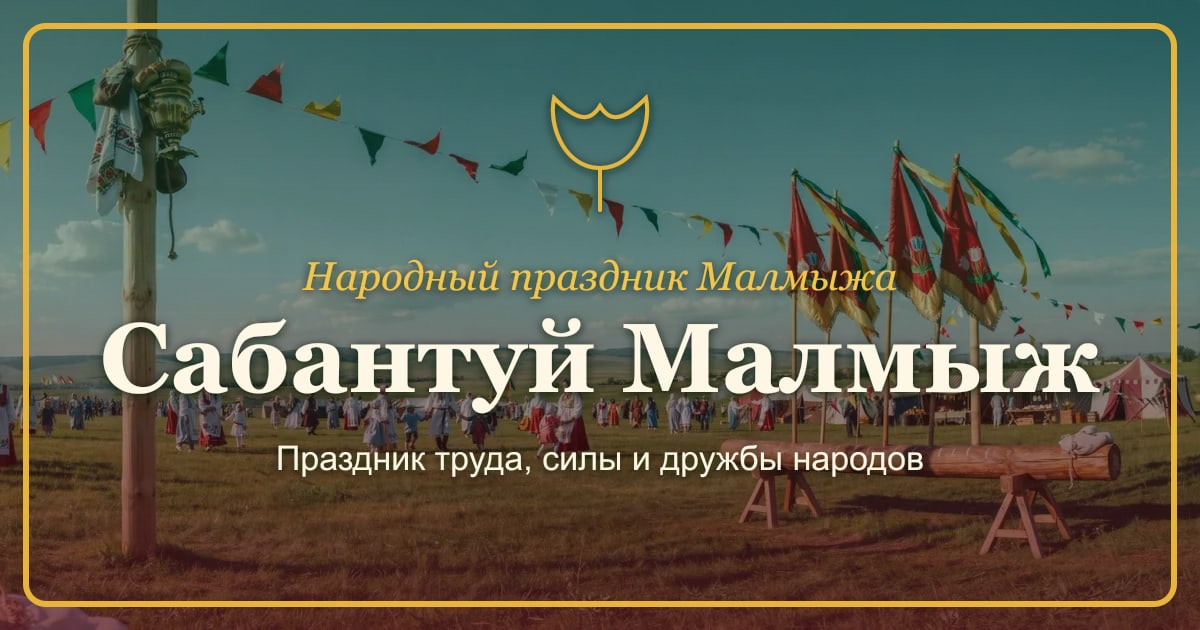
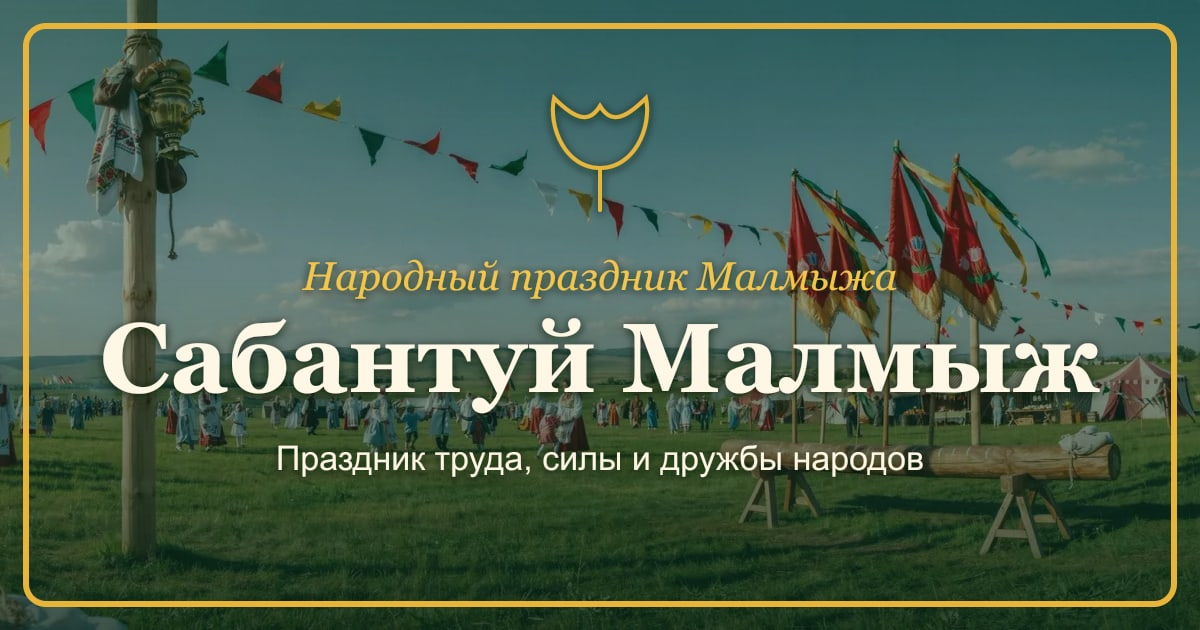
feat(decor): зелёные вуали вместо красных + фото-шапки без рисованных SVG-сцен (#94)
Владелец: «красные затемнения раздражают, красный везде» + «алгоритмом
нарисованные картинки заменить на настоящие фото».

Цвет (red→green):
- tokens.css --hero-overlay (вуаль ВСЕХ фото-шапок + главного героя + секций-
  фонов .section--photo) уходила зелёный→бордовый→МАЛИНОВЫЙ к низу → теперь
  изумрудная по всей высоте. Это и есть «красные затемнения везде».
- pageDecor: убраны малиновые акценты шапок (istoriya→gold, kuhnya→green).
- faq-обложка культ-хаба: малиновый градиент-иконка → зелёный.
- OG-картинка: вуаль перегенерирована в зелёной гамме.

Рисованные сцены долой:
- SceneIllustration (11 SVG-сцен, рисованных кодом) убран из шапок и удалён.
  Страницы с фото показывают сам кадр (чистая фото-шапка); страницы без фото
  (faq/kontakty/privacy) — мотив-медальон до прихода настоящих фото.
- pageDecor: поле scene удалено; PageView медальон только при !photo.
- festive.css: убрано неиспользуемое .page-hero-scene.

Гейт: typecheck + lint + build(14/14) зелёные; ссылок на SceneIllustration нет.
OG проверен Read (зелёная гамма). Прод-смоук шапок — после деплоя.

Changed region(s): [[0.0, 0.6333, 1.0, 1.0]]

diff --git a/web/src/lib/pageDecor.ts b/web/src/lib/pageDecor.ts
@@ -1,27 +1,26 @@
 import type { MotifName } from '../app/(frontend)/components/MotifIcon'
-import type { SceneName } from '../app/(frontend)/components/SceneIllustration'
 import type { Locale } from './i18n'
 
 /**
- * Контент-aware декор прозовых страниц (Pages по slug): тематическая
- * фолк-иллюстрация (SceneIllustration), мотив-иконка-fallback, акцентная тема и
- * надзаголовок-eyebrow подбираются по смыслу страницы. Используется PageView
- * (общий для ru/tt) — закрывает директиву brain «ни одной сухой страницы»:
- * у каждой страницы крупная иллюстрация по смыслу + орнамент-слой.
+ * Контент-aware декор прозовых страниц (Pages по slug): AI-фото-шапка (если есть),
+ * мотив-медальон-fallback (для страниц без фото), акцентная тема и надзаголовок-
+ * eyebrow по смыслу страницы. Используется PageView (общий для ru/tt).
+ *
+ * Прежние рисованные SVG-сцены (SceneIllustration) убраны (владелец: заменить
+ * алгоритмическую графику на настоящие фото) — шапки с фото показывают сам кадр,
+ * безфотовые страницы (faq/kontakty/privacy) — мотив-медальон до прихода фото.
  *
  * Иконки культ-разделов держим в синхроне с lib/cultureSections.tsx (там тот же
  * MotifName на каждый slug). Здесь добавлены служебные страницы (o-sabantuy и т.п.),
- * сцена-иллюстрация, акцент и eyebrow.
+ * акцент и eyebrow.
  */
 type DecorAccent = 'green' | 'crimson' | 'gold' | 'tint'
 
 export type PageDecor = {
   icon: MotifName
-  /** Тематическая иллюстрация по смыслу (R3). null → крупный мотив-медальон. */
-  scene: SceneName | null
   accent: DecorAccent
   eyebrow: string
-  /** AI-фото-фон шапки (гибрид «фото + SVG-эмблема»): базовое имя в /decor/. */
+  /** AI-фото-фон шапки: базовое имя в /decor/. null → мотив-медальон. */
   photo: PagePhoto | null
 }
 
@@ -30,7 +29,6 @@ export type PagePhoto = { base: string; largeWidth: number }
 
 type DecorDef = {
   icon: MotifName
-  scene: SceneName | null
   accent: DecorAccent
   eyebrow: { ru: string; tt: string }
   photo?: PagePhoto
@@ -40,56 +38,48 @@ const DECOR: Record<string, DecorDef> = {
   // ── Культурные разделы (иконки = lib/cultureSections.tsx) ──────────────────
   narody: {
     icon: 'peoples',
-    scene: 'peoples',
     accent: 'green',
     eyebrow: { ru: 'Дружба народов', tt: 'Халыклар дуслыгы' },
     photo: { base: 'page-narody', largeWidth: 1344 },
   },
   podvorya: {
     icon: 'house',
-    scene: 'house',
     accent: 'gold',
     eyebrow: { ru: 'Национальные дворы', tt: 'Милли йортлар' },
     photo: { base: 'page-podvorya', largeWidth: 1248 },
   },
   'istoriya-sabantuya': {
     icon: 'scroll',
-    scene: 'plough',
-    accent: 'crimson',
+    accent: 'gold',
     eyebrow: { ru: 'Из глубины веков', tt: 'Гасырлар тирәнлегеннән' },
     photo: { base: 'page-istoriya', largeWidth: 1536 },
   },
   maydan: {
     icon: 'koresh',
-    scene: 'wrestling',
     accent: 'green',
     eyebrow: { ru: 'Состязания батыров', tt: 'Батырлар ярышы' },
     photo: { base: 'page-maydan', largeWidth: 1920 },
   },
   'detskiy-maydan': {
     icon: 'kids',
-    scene: 'kids',
     accent: 'gold',
     eyebrow: { ru: 'Для самых маленьких', tt: 'Иң кечкенәләр өчен' },
     photo: { base: 'page-detskiy', largeWidth: 1248 },
   },
   kuhnya: {
     icon: 'cuisine',
-    scene: 'feast',
-    accent: 'crimson',
+    accent: 'green',
     eyebrow: { ru: 'Вкусы праздника', tt: 'Бәйрәм тәмнәре' },
     photo: { base: 'page-kuhnya', largeWidth: 1344 },
   },
   'kak-dobratsya': {
     icon: 'compass',
-    scene: 'road',
     accent: 'green',
     eyebrow: { ru: 'Дорога до Малмыжа', tt: 'Малмыжга юл' },
     photo: { base: 'page-doroga', largeWidth: 1248 },
   },
   faq: {
     icon: 'question',
-    scene: 'faq',
     accent: 'tint',
     eyebrow: { ru: 'Памятка гостю', tt: 'Кунакка хәтерләтмә' },
   },
@@ -97,20 +87,17 @@ const DECOR: Record<string, DecorDef> = {
   // ── Служебные / контентные страницы ───────────────────────────────────────
   'o-sabantuy': {
     icon: 'tulip',
-    scene: 'celebration',
     accent: 'green',
     eyebrow: { ru: 'О фестивале', tt: 'Фестиваль турында' },
     photo: { base: 'page-o-sabantuy', largeWidth: 1248 },
   },
   kontakty: {
     icon: 'compass',
-    scene: 'contact',
     accent: 'gold',
     eyebrow: { ru: 'Свяжитесь с нами', tt: 'Безнең белән бәйләнешегез' },
   },
   privacy: {
     icon: 'scroll',
-    scene: 'document',
     accent: 'tint',
     eyebrow: { ru: 'Правовая информация', tt: 'Хокукый мәгълүмат' },
   },
@@ -118,7 +105,6 @@ const DECOR: Record<string, DecorDef> = {
 
 const FALLBACK: DecorDef = {
   icon: 'tulip',
-  scene: 'celebration',
   accent: 'tint',
   eyebrow: { ru: 'Сабантуй Малмыж', tt: 'Сабантуй Малмыж' },
 }
@@ -128,7 +114,6 @@ export function getPageDecor(slug: string, locale: Locale = 'ru'): PageDecor {
   const def = DECOR[slug] ?? FALLBACK
   return {
     icon: def.icon,
-    scene: def.scene,
     accent: def.accent,
     eyebrow: def.eyebrow[locale],
     photo: def.photo ?? null,

diff --git a/web/src/app/(frontend)/festive.css b/web/src/app/(frontend)/festive.css
@@ -386,14 +386,11 @@ a.feature-card:hover {
 a.feature-card--cover:hover .feature-cover img {
   transform: scale(1.05);
 }
-/* Раздел без тематического фото (faq): мотив-иконка на фирменном градиенте */
+/* Раздел без тематического фото (faq): мотив-иконка на зелёном градиенте */
 .feature-cover--icon {
   display: grid;
   place-items: center;
   color: #fff;
-}
-.feature-card--cover:nth-child(even) .feature-cover--icon {
-  background: var(--grad-crimson);
 }
 .feature-card-body {
   display: block;
@@ -701,20 +698,8 @@ a.feature-card--cover:hover .feature-cover img {
   background: #fff;
   color: var(--brand-green-dark);
 }
-/* Тематическая иллюстрация по смыслу (R3) — крупно в кремовой рамке-карточке */
-.page-hero-scene {
-  display: block;
-  width: clamp(180px, 44vw, 290px);
-  height: auto;
-  margin: 0 auto 1rem;
-  padding: 0.7rem 1.1rem;
-  background: rgba(255, 255, 255, 0.74);
-  border: 1px solid var(--c-gold);
-  border-radius: var(--radius-lg);
-  box-shadow: var(--shadow-sm);
-}
 
-/* Гибрид «AI-фото-фон + SVG-эмблема» (IMAGE_PIPELINE): фото инлайн-переменными
+/* AI-фото-фон шапки (IMAGE_PIPELINE): фото инлайн-переменными
    --hero-photo / --hero-photo-sm (image-set webp/jpg), сверху вуаль как у
    .section--photo, текст светлый. Без фото класс не ставится — цветной фолбэк. */
 .page-hero--photo {

diff --git a/web/src/app/(frontend)/_views/PageView.tsx b/web/src/app/(frontend)/_views/PageView.tsx
@@ -10,7 +10,6 @@ import { t, type Locale } from '../../../lib/i18n'
 import { localeHref } from '../../../lib/localeHref'
 import { getPageDecor } from '../../../lib/pageDecor'
 import { MotifIcon } from '../components/MotifIcon'
-import { SceneIllustration } from '../components/SceneIllustration'
 import { SectionDivider } from '../components/SectionDivider'
 
 // Общее тело статической страницы (Pages по slug). Используют ru-маршрут [slug] и
@@ -48,7 +47,8 @@ export async function PageView({ slug, locale }: { slug: string; locale: Locale 
 
   return (
     <main>
-      {/* Контент-aware шапка: тематическая иллюстрация по смыслу + орнамент-слой */}
+      {/* Контент-aware шапка: AI-фото-фон (если есть) + орнамент-слой; без фото —
+          мотив-медальон по смыслу страницы. Рисованные SVG-сцены убраны. */}
       <header
         className={`page-hero page-hero--${decor.accent} pattern-petals${decor.photo ? ' page-hero--photo' : ''}`}
         style={photoStyle}
@@ -57,9 +57,7 @@ export async function PageView({ slug, locale }: { slug: string; locale: Locale 
           <Link className="breadcrumb" href={localeHref(locale, '/')}>
             ← {t(locale, 'notFound.home')}
           </Link>
-          {decor.scene ? (
-            <SceneIllustration name={decor.scene} className="page-hero-scene" />
-          ) : (
+          {!decor.photo && (
             <span className="page-hero-medallion" aria-hidden="true">
               <MotifIcon name={decor.icon} size={38} />
             </span>

diff --git a/web/src/app/(frontend)/tokens.css b/web/src/app/(frontend)/tokens.css
@@ -27,11 +27,13 @@
   --grad-green: linear-gradient(160deg, var(--brand-green), var(--brand-green-dark));
   --grad-crimson: linear-gradient(160deg, var(--c-crimson), var(--c-burgundy));
   --grad-gold: linear-gradient(120deg, var(--c-gold), var(--c-gold-deep));
+  /* Вуаль над фото-шапками/героем/секциями — зелёная (раньше уходила в малиновый
+     к низу; владелец: «красные затемнения раздражают» → изумрудная гамма). */
   --hero-overlay: linear-gradient(
     180deg,
-    rgba(10, 60, 35, 0.42) 0%,
-    rgba(70, 16, 36, 0.5) 55%,
-    rgba(122, 18, 40, 0.72) 100%
+    rgba(10, 60, 35, 0.4) 0%,
+    rgba(9, 48, 29, 0.52) 55%,
+    rgba(7, 38, 23, 0.74) 100%
   );
 
   /* Шрифты: --font-display / --font-body задаёт next/font на <html> (layout.tsx).

diff --git a/web/src/seed/genOgImage.ts b/web/src/seed/genOgImage.ts
@@ -26,9 +26,9 @@ const overlay = `<svg xmlns="http://www.w3.org/2000/svg" width="1200" height="63
   <defs>
     <linearGradient id="veil" x1="0" y1="0" x2="0" y2="1">
       <stop offset="0" stop-color="#0c3a24" stop-opacity="0.55"/>
-      <stop offset="0.42" stop-color="#0c3a24" stop-opacity="0.42"/>
-      <stop offset="0.72" stop-color="#3a0f17" stop-opacity="0.5"/>
-      <stop offset="1" stop-color="#5a1620" stop-opacity="0.72"/>
+      <stop offset="0.42" stop-color="#0a3221" stop-opacity="0.42"/>
+      <stop offset="0.72" stop-color="#093020" stop-opacity="0.54"/>
+      <stop offset="1" stop-color="#072618" stop-opacity="0.74"/>
     </linearGradient>
     <filter id="sh" x="-20%" y="-20%" width="140%" height="140%">
       <feDropShadow dx="0" dy="2" stdDeviation="5" flood-color="#08160d" flood-opacity="0.85"/>